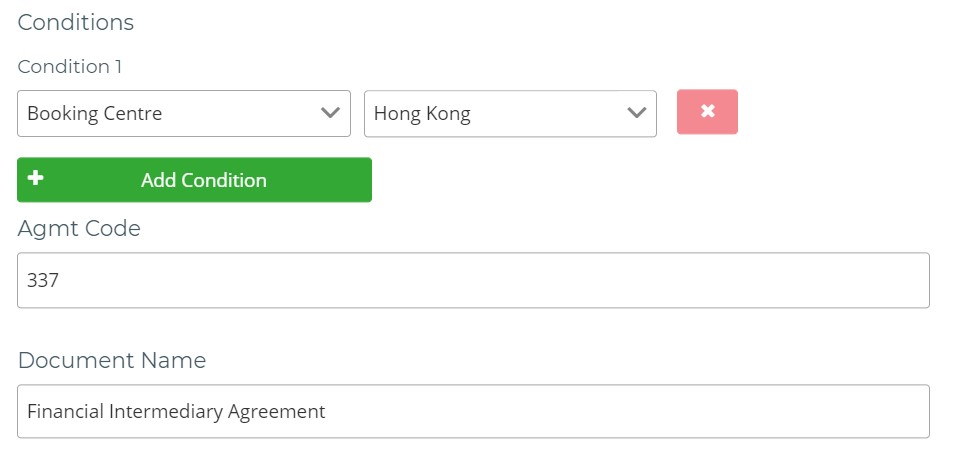
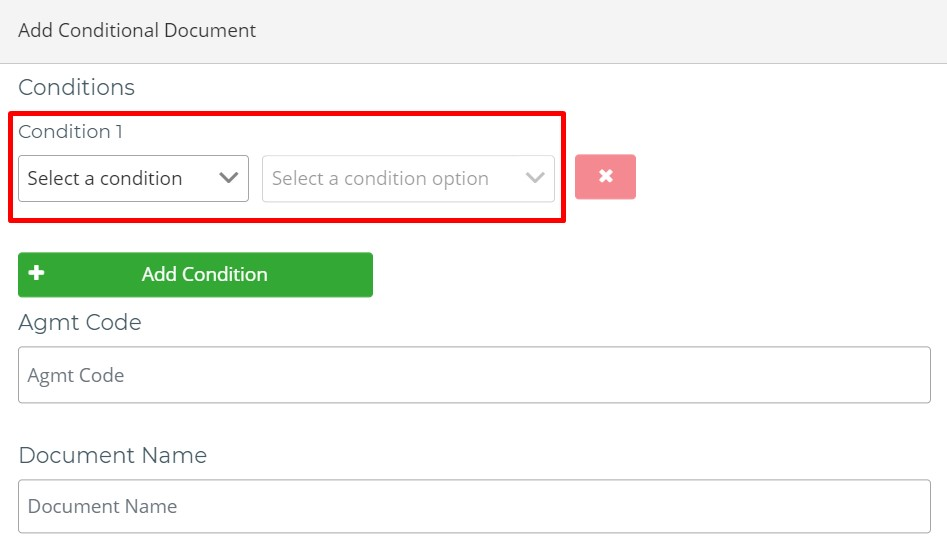
Added more info for 'Checklist Condition'.

diff --git a/src/app/modules/cm/pages/cm-edit-checklist/cm-edit-checklist.component.html b/src/app/modules/cm/pages/cm-edit-checklist/cm-edit-checklist.component.html
@@ -51,8 +51,51 @@
         <!-- Checklist Conditions -->
         <div style="padding-bottom: 10px" id="conditions">
             <p-card styleClass="ui-card-shadow">
-                <h4>Checklist Conditions</h4>
-                *Input condition options by pressing 'enter'
+                <h4 style="display: inline-block;">Checklist Conditions</h4>
+                <p-dialog header="Information on Checklist Conditions" [(visible)]="cInfoDisplay" [closable]="true" [maximizable]="true">
+                    <font size="3">
+                        <p>
+                            <strong>Checklist conditions are tied to onboarding documents which are required under certain condition.</strong>
+                            <br>
+                            <i>E.G. Financial Intermediary Agreement is only required if Booking Center is Hong Kong.</i>
+                        </p>
+                        <br>
+                        <p>
+                            <strong>In the below image, it shows the creation of a Conditional Document which requires its condition
+                                parameters to be filled.</strong>
+                        </p>
+                        <img src="assets/images/CM_Cond_Info_Part_1.jpg" alt="Example of Condition" class="dark-logo" style="border:1px solid grey; width: 500px; height: 250px"
+                        />
+                        <br>
+                        <br>
+                        <p>
+                            <strong>
+                                To create the condition paramenters, you are required to fill in 'Condition' and 'Condition Options' as shown in the below
+                                image.
+                                <br> In the example below, there are 2 options, 'Singapore' and 'Hong Kong'.
+                                <br> Each option needs be typed into the 'Condition Options' input field.
+                                <br> Press Enter after writing each option.
+                            </strong>
+                        </p>
+                        <img src="assets/images/CM_Cond_Info_Part_2.jpg" alt="Example of Condition" class="dark-logo" style="border:1px solid grey; width: 500px; height: 150px"
+                        />
+                        <br>
+                        <br>
+                        <p>
+                            <strong>
+                                The conditon parameters you have created will be reflected on the creation of Conditional Document.
+                            </strong>
+                        </p>
+                        <img src="assets/images/CM_Cond_Info_Part_3.jpg" alt="Example of Condition" class="dark-logo" style="border:1px solid grey; width: 500px; height: 250px"
+                        />
+                        <br>
+                        <br>
+                    </font>
+                </p-dialog>
+                <div style="float: right">
+                    <button type="button" (click)="showCInfoDialog()" pButton icon="pi pi-info-circle" class="ui-button-rounded ui-button-info"
+                        label="info"></button>
+                </div>
                 <br>
                 <br>
                 <div formArrayName="conditions">
@@ -69,6 +112,9 @@
                                     [addOnTab]="true" [addOnBlur]="true" class="invalid" *ngIf="currentChecklistForm.get('conditions').get(i + '').get('conditionOptions').dirty && currentChecklistForm.get('conditions').get(i + '').get('conditionOptions').errors?.required"></p-chips>
                                 <p-chips placeholder="Condition Options* (e.g. Singapore, Hong Kong)" [allowDuplicate]="false" formControlName="conditionOptions"
                                     [addOnTab]="true" [addOnBlur]="true" *ngIf="!currentChecklistForm.get('conditions').get(i + '').get('conditionOptions').dirty || !currentChecklistForm.get('conditions').get(i + '').get('conditionOptions').errors?.required"></p-chips>
+                                <p>
+                                    *Input condition options by pressing 'enter'
+                                </p>
                                 <div class="error-inline-msg">
                                     <span *ngIf="currentChecklistForm.get('conditions').get(i + '').get('conditionName').dirty && currentChecklistForm.get('conditions').get(i + '').get('conditionName').hasError('isDuplicate')">
                                         Duplicate condition name
@@ -135,7 +181,8 @@
                     <button pButton label="Mandatory" class="ui-button-primary" style="display: inline-block; width: 20%" type="button" icon="fa fa-plus"
                         (click)="showMDialog()"></button>
 
-                    <p-dialog [formGroup]="dialogForm" header="Add Mandatory Document" [(visible)]="mDisplay" [closable]="false" [maximizable]="true" [width]="800">
+                    <p-dialog [formGroup]="dialogForm" header="Add Mandatory Document" [(visible)]="mDisplay" [closable]="false" [maximizable]="true"
+                        [width]="800">
                         <h5>Agmt Code</h5>
                         <p-autoComplete [suggestions]="filteredAgmtCodes" (onSelect)="updateAgmtDocValues($event)" (completeMethod)="searchAgmtCodes($event)"
                             placeholder="Agmt Code" formControlName="agmtCode" [style]="{'width':'90%', 'margin-bottom': '1%'}"
@@ -160,7 +207,8 @@
                         </div>
                     </p-dialog>
 
-                    <p-dialog [formGroup]="dialogForm" header="Edit Mandatory Document" [(visible)]="mEditDisplay" [closable]="false" [maximizable]="true" [width]="800">
+                    <p-dialog [formGroup]="dialogForm" header="Edit Mandatory Document" [(visible)]="mEditDisplay" [closable]="false" [maximizable]="true"
+                        [width]="800">
                         <h5>Agmt Code</h5>
                         <p-autoComplete [suggestions]="filteredAgmtCodes" (onSelect)="updateAgmtDocValues($event)" (completeMethod)="searchAgmtCodes($event)"
                             placeholder="Agmt Code" formControlName="agmtCode" [style]="{'width':'90%', 'margin-bottom': '1%'}"
@@ -240,7 +288,8 @@
                     <button pButton class="cButton" label="Conditional" style="display: inline-block; width: 20%" type="button" icon="fa fa-plus"
                         (click)="showCDialog()"></button>
 
-                    <p-dialog [formGroup]="cDialogForm" header="Add Conditional Document" [(visible)]="cDisplay" [closable]="false" [maximizable]="true" [width]="800">
+                    <p-dialog [formGroup]="cDialogForm" header="Add Conditional Document" [(visible)]="cDisplay" [closable]="false" [maximizable]="true"
+                        [width]="800">
                         <h5>Conditions</h5>
                         <div formArrayName="conditions">
                             <div *ngFor="let condition of cDialogForm.get('conditions').controls; let i=index">
@@ -284,7 +333,8 @@
                         </div>
                     </p-dialog>
 
-                    <p-dialog [formGroup]="cDialogForm" header="Edit Conditional Document" [(visible)]="cEditDisplay" [closable]="false" [maximizable]="true" [width]="800">
+                    <p-dialog [formGroup]="cDialogForm" header="Edit Conditional Document" [(visible)]="cEditDisplay" [closable]="false" [maximizable]="true"
+                        [width]="800">
                         <h5>Conditions</h5>
                         <div formArrayName="conditions">
                             <div *ngFor="let condition of cDialogForm.get('conditions').controls; let i=index">
@@ -371,7 +421,8 @@
                     <button pButton label="Optional" class="ui-button-secondary" style="display: inline-block; width: 20%" type="button" icon="fa fa-plus"
                         (click)="showODialog()"></button>
 
-                    <p-dialog [formGroup]="dialogForm" header="Add Optional Document" [(visible)]="oDisplay" [closable]="false" [maximizable]="true"   [width]="800">
+                    <p-dialog [formGroup]="dialogForm" header="Add Optional Document" [(visible)]="oDisplay" [closable]="false" [maximizable]="true"
+                        [width]="800">
                         <h5>Agmt Code</h5>
                         <p-autoComplete [suggestions]="filteredAgmtCodes" (onSelect)="updateAgmtDocValues($event)" (completeMethod)="searchAgmtCodes($event)"
                             placeholder="Agmt Code" formControlName="agmtCode" [style]="{'width':'90%', 'margin-bottom': '1%'}"
@@ -396,7 +447,8 @@
                         </div>
                     </p-dialog>
 
-                    <p-dialog [formGroup]="dialogForm" header="Edit Optional Document" [(visible)]="oEditDisplay" [closable]="false" [maximizable]="true" [width]="800">
+                    <p-dialog [formGroup]="dialogForm" header="Edit Optional Document" [(visible)]="oEditDisplay" [closable]="false" [maximizable]="true"
+                        [width]="800">
                         <h5>Agmt Code</h5>
                         <p-autoComplete [suggestions]="filteredAgmtCodes" (onSelect)="updateAgmtDocValues($event)" (completeMethod)="searchAgmtCodes($event)"
                             placeholder="Agmt Code" formControlName="agmtCode" [style]="{'width':'90%', 'margin-bottom': '1%'}"
@@ -475,7 +527,8 @@
                     <button pButton label="Mandatory" class="ui-button-primary" style="display: inline-block; width: 20%" type="button" icon="fa fa-plus"
                         (click)="showMDialog()"></button>
 
-                    <p-dialog [formGroup]="dialogForm" header="Add Mandatory Document" [(visible)]="mDisplay" [closable]="false" [maximizable]="true" [width]="800">
+                    <p-dialog [formGroup]="dialogForm" header="Add Mandatory Document" [(visible)]="mDisplay" [closable]="false" [maximizable]="true"
+                        [width]="800">
                         <h5>Agmt Code</h5>
                         <p-autoComplete [suggestions]="filteredAgmtCodes" (onSelect)="updateAgmtDocValues($event)" (completeMethod)="searchAgmtCodes($event)"
                             placeholder="Agmt Code" formControlName="agmtCode" [style]="{'width':'90%', 'margin-bottom': '1%'}"
@@ -503,7 +556,8 @@
                         </div>
                     </p-dialog>
 
-                    <p-dialog [formGroup]="dialogForm" header="Edit Mandatory Document" [(visible)]="mEditDisplay" [closable]="false" [maximizable]="true" [width]="800">
+                    <p-dialog [formGroup]="dialogForm" header="Edit Mandatory Document" [(visible)]="mEditDisplay" [closable]="false" [maximizable]="true"
+                        [width]="800">
                         <h5>Agmt Code</h5>
                         <p-autoComplete [suggestions]="filteredAgmtCodes" (onSelect)="updateAgmtDocValues($event)" (completeMethod)="searchAgmtCodes($event)"
                             placeholder="Agmt Code" formControlName="agmtCode" [style]="{'width':'90%', 'margin-bottom': '1%'}"
@@ -592,7 +646,8 @@
 
                     <button pButton label="Conditional" class="cButton" style="display: inline-block; width: 20%" type="button" icon="fa fa-plus"
                         (click)="showCDialog()"></button>
-                    <p-dialog [formGroup]="cDialogForm" header="Add Conditional Document" [(visible)]="cDisplay" [closable]="false" [maximizable]="true" [width]="800">
+                    <p-dialog [formGroup]="cDialogForm" header="Add Conditional Document" [(visible)]="cDisplay" [closable]="false" [maximizable]="true"
+                        [width]="800">
                         <h5>Conditions</h5>
                         <div formArrayName="conditions">
                             <div *ngFor="let condition of cDialogForm.get('conditions').controls; let i=index">
@@ -639,7 +694,8 @@
                         </div>
                     </p-dialog>
 
-                    <p-dialog [formGroup]="cDialogForm" header="Edit Conditional Document" [(visible)]="cEditDisplay" [closable]="false" [maximizable]="true" [width]="800">
+                    <p-dialog [formGroup]="cDialogForm" header="Edit Conditional Document" [(visible)]="cEditDisplay" [closable]="false" [maximizable]="true"
+                        [width]="800">
                         <h5>Conditions</h5>
                         <div formArrayName="conditions">
                             <div *ngFor="let condition of cDialogForm.get('conditions').controls; let i=index">
@@ -736,7 +792,8 @@
                     <button pButton label="Optional" class="ui-button-secondary" style="display: inline-block; width: 20%" type="button" icon="fa fa-plus"
                         (click)="showODialog()"></button>
 
-                    <p-dialog [formGroup]="dialogForm" header="Add Optional Document" [(visible)]="oDisplay" [closable]="false" [maximizable]="true" [width]="800">
+                    <p-dialog [formGroup]="dialogForm" header="Add Optional Document" [(visible)]="oDisplay" [closable]="false" [maximizable]="true"
+                        [width]="800">
                         <h5>Agmt Code</h5>
                         <p-autoComplete [suggestions]="filteredAgmtCodes" (onSelect)="updateAgmtDocValues($event)" (completeMethod)="searchAgmtCodes($event)"
                             placeholder="Agmt Code" formControlName="agmtCode" [style]="{'width':'90%', 'margin-bottom': '1%'}"
@@ -764,7 +821,8 @@
                         </div>
                     </p-dialog>
 
-                    <p-dialog [formGroup]="dialogForm" header="Edit Optional Document" [(visible)]="oEditDisplay" [closable]="false" [maximizable]="true" [width]="800">
+                    <p-dialog [formGroup]="dialogForm" header="Edit Optional Document" [(visible)]="oEditDisplay" [closable]="false" [maximizable]="true"
+                        [width]="800">
                         <h5>Agmt Code</h5>
                         <p-autoComplete [suggestions]="filteredAgmtCodes" (onSelect)="updateAgmtDocValues($event)" (completeMethod)="searchAgmtCodes($event)"
                             placeholder="Agmt Code" formControlName="agmtCode" [style]="{'width':'90%', 'margin-bottom': '1%'}"

diff --git a/src/app/modules/cm/pages/cm-new-checklist/cm-new-checklist.component.html b/src/app/modules/cm/pages/cm-new-checklist/cm-new-checklist.component.html
@@ -71,21 +71,49 @@
                         <img src="assets/images/tooltips/checklistConditions.png" style="width: 100%" />
                     </p-overlayPanel> -->
                 </h4>
-                <p-overlayPanel #condInfo [appendTo]="'body'">
-                    <p>
-                        <strong>
-                            <u>Information on Checklist</u>
-                        </strong>
-                    </p>
-                    <p>Checklist conditions are tied to onboarding documents which are required under certain condition.</p>
-                    <p>
-                        <i>E.G. Financial Intermediary Agreement is only required if Booking Center is Hong Kong.</i>
-                    </p>
-                    <img src="assets/images/CM_Cond_Info_Part_1.jpg" alt="Example of Condition" class="dark-logo" width="450" height="220"/>
-                    <img src="assets/images/CM_Cond_Info_Part_3.jpg" alt="Example of Condition" class="dark-logo" width="450" height="250"/>
-                </p-overlayPanel>
+                <p-dialog header="Information on Checklist Conditions" [(visible)]="cInfoDisplay" [closable]="true" [maximizable]="true">
+                    <font size="3">
+                        <p>
+                            <strong>Checklist conditions are tied to onboarding documents which are required under certain condition.</strong>
+                            <br>
+                            <i>E.G. Financial Intermediary Agreement is only required if Booking Center is Hong Kong.</i>
+                        </p>
+                        <br>
+                        <p>
+                            <strong>In the below image, it shows the creation of a Conditional Document which requires its condition
+                                parameters to be filled.</strong>
+                        </p>
+                        <img src="assets/images/CM_Cond_Info_Part_1.jpg" alt="Example of Condition" class="dark-logo" style="border:1px solid grey; width: 500px; height: 250px"
+                        />
+                        <br>
+                        <br>
+                        <p>
+                            <strong>
+                                To create the condition paramenters, you are required to fill in 'Condition' and 'Condition Options' as shown in the below
+                                image.
+                                <br> In the example below, there are 2 options, 'Singapore' and 'Hong Kong'.
+                                <br> Each option needs be typed into the 'Condition Options' input field.
+                                <br> Press Enter after writing each option.
+                            </strong>
+                        </p>
+                        <img src="assets/images/CM_Cond_Info_Part_2.jpg" alt="Example of Condition" class="dark-logo" style="border:1px solid grey; width: 500px; height: 150px"
+                        />
+                        <br>
+                        <br>
+                        <p>
+                            <strong>
+                                The conditon parameters you have created will be reflected on the creation of Conditional Document.
+                            </strong>
+                        </p>
+                        <img src="assets/images/CM_Cond_Info_Part_3.jpg" alt="Example of Condition" class="dark-logo" style="border:1px solid grey; width: 500px; height: 250px"
+                        />
+                        <br>
+                        <br>
+                    </font>
+                </p-dialog>
                 <div style="float: right">
-                    <button type="button" (click)="condInfo.show($event)" pButton icon="pi pi-info-circle" class="ui-button-rounded ui-button-info"></button>
+                    <button type="button" (click)="showCInfoDialog()" pButton icon="pi pi-info-circle" class="ui-button-rounded ui-button-info"
+                        label="info"></button>
                 </div>
                 <br>
                 <div formArrayName="conditions">

diff --git a/src/app/modules/cm/pages/cm-edit-checklist/cm-edit-checklist.component.ts b/src/app/modules/cm/pages/cm-edit-checklist/cm-edit-checklist.component.ts
@@ -36,6 +36,7 @@ export class CMEditChecklistComponent implements OnInit {
     mDisplay = false;
     mEditDisplay = false;
     cDisplay = false;
+    cInfoDisplay = false;
     cEditDisplay = false;
     oDisplay = false;
     oEditDisplay = false;
@@ -304,6 +305,10 @@ export class CMEditChecklistComponent implements OnInit {
             }
         }
         return null;
+    }
+
+    showCInfoDialog() {
+        this.cInfoDisplay = true;
     }
 
     retrieveAgmtCodes() {

diff --git a/src/app/modules/fo/pages/fo-manage-onboard/fo-manage-onboard.component.ts b/src/app/modules/fo/pages/fo-manage-onboard/fo-manage-onboard.component.ts
@@ -42,7 +42,6 @@ export class FOManageOnboardComponent implements OnInit {
 
     onChange() {
         this.retrieveSortedOnboardProcesses();
-        console.log(this.selectedSortOpt);
     }
 
     toggleUrgent(index: number) {
